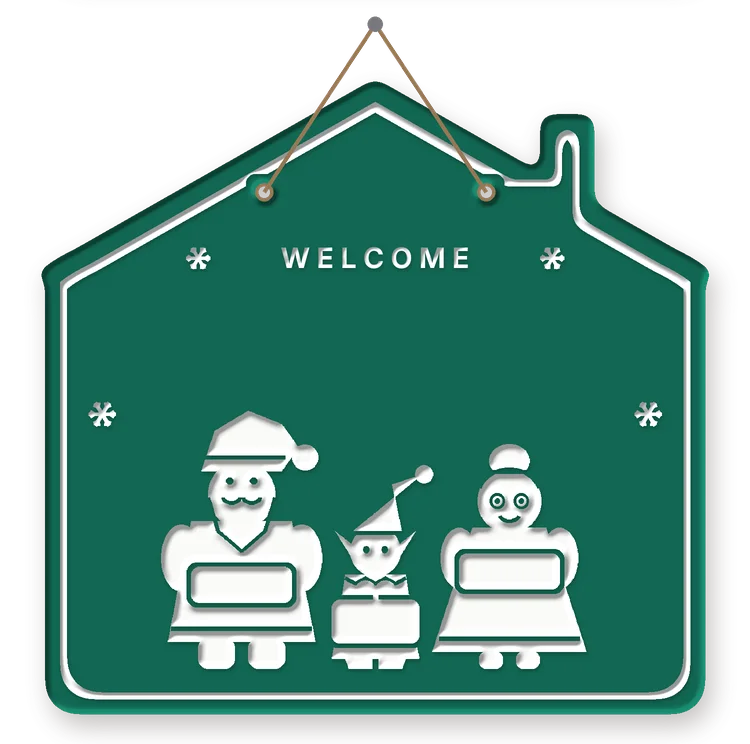
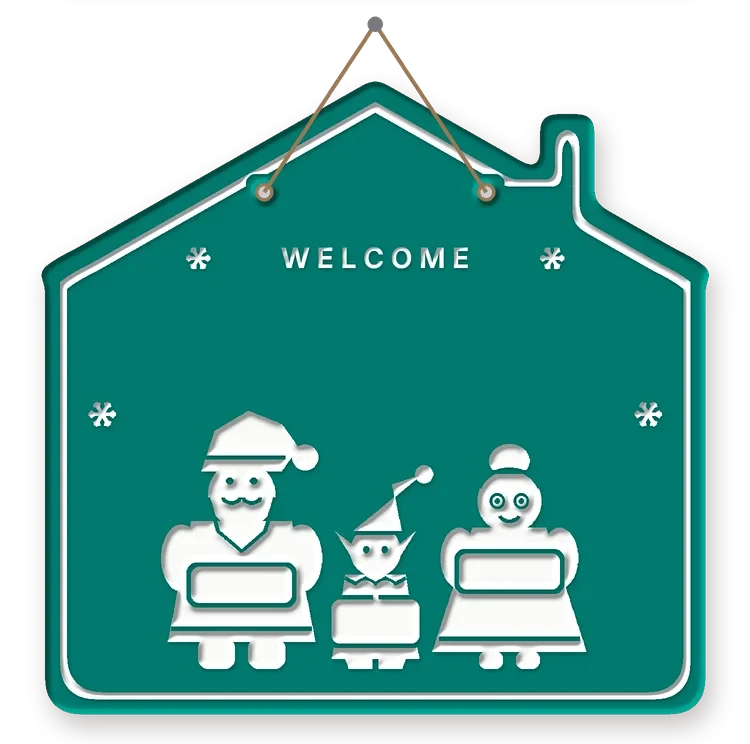
Colours: every green is now pine green (#01796F)
Site and manager CSS, colour swatches, My Village pin, door sign previews.

Claude-Session: https://claude.ai/code/session_01TFBsFu5dNMPwjzkzJrfKhk

diff --git a/index.html b/index.html
@@ -22,7 +22,7 @@
 :root{
   --bg:#FFFFFF; --soft:#F5F7FA; --soft2:#EEF2F7; --line:#E3E8EF; --line2:#D3DAE4;
   --text:#0B1220; --muted:#5B6472; --blue:#1A8CFF; --accent:#0A6FE0; --accent2:#0A6FE0; --accent3:#1A8CFF; --tint:#EAF4FF;
-  --green:#12804A; --red:#D7262C; --xmas:#F2F8F4;
+  --green:#01796F; --red:#D7262C; --xmas:#F2F8F7;
   --r:18px; --head:'Space Grotesk',system-ui,sans-serif; --brand:'Unbounded',system-ui,sans-serif; --body:'Inter',system-ui,sans-serif;
   --shadow:0 1px 2px rgba(11,18,32,.04),0 8px 24px rgba(11,18,32,.06);
   /* legacy names used by markup */
@@ -90,7 +90,7 @@ header.top{position:sticky;top:0;z-index:40;background:rgba(255,255,255,.9);back
 .btn.sec{background:#fff;color:var(--text);border-color:var(--line2)}
 .btn.sec:hover{border-color:var(--text)}
 .btn.blue{background:var(--text);color:#fff}
-.btn.wa{background:#1FAF54;color:#fff}
+.btn.wa{background:#01796F;color:#fff}
 .btn.full{width:100%}
 .btn[disabled]{opacity:.5;pointer-events:none}
 
@@ -119,7 +119,7 @@ header.top{position:sticky;top:0;z-index:40;background:rgba(255,255,255,.9);back
 .count .u b{display:block;font-family:var(--head);font-size:24px;font-weight:700}
 .count .u small{font-size:11px;color:var(--muted);letter-spacing:.1em;text-transform:uppercase}
 .flagbar{display:inline-block;width:32px;height:21px;border-radius:3px;background:linear-gradient(var(--red) 0 25%,#fff 25% 75%,var(--red) 75%);vertical-align:middle;margin-right:10px;position:relative;box-shadow:0 0 0 1px var(--line)}
-.flagbar:after{content:"";position:absolute;left:12px;top:6.5px;border:4px solid transparent;border-bottom:8px solid #1FA14E;border-top:0}
+.flagbar:after{content:"";position:absolute;left:12px;top:6.5px;border:4px solid transparent;border-bottom:8px solid #01796F;border-top:0}
 
 /* sections */
 section.blk{padding:80px 0}
@@ -151,13 +151,13 @@ section.blk{padding:80px 0}
 .add{background:#fff;border:1px solid var(--line2);border-radius:10px;padding:8px 14px;font-weight:600;font-size:14px;min-height:38px;display:inline-flex;align-items:center}
 .pcard:hover .add{background:var(--text);color:#fff;border-color:var(--text)}
 
-.xmas{background:var(--xmas);border-top:1px solid #DDEBE2;border-bottom:1px solid #DDEBE2}
+.xmas{background:var(--xmas);border-top:1px solid #DDEBEA;border-bottom:1px solid #DDEBEA}
 .xmas .eyebrow{color:var(--green)}
 .soon .soon-blur{filter:blur(7px);pointer-events:none;user-select:none;opacity:.85}
 .soon-badge{display:table;margin:0 auto 22px;background:var(--text);color:#fff;font-family:var(--head);font-weight:700;font-size:clamp(20px,2.4vw,28px);letter-spacing:-.01em;padding:12px 28px;border-radius:99px;position:relative;z-index:2}
 
 .snow{display:none}
-.cut{display:inline-flex;align-items:center;gap:10px;background:#fff;border:1px solid #CFE3D6;color:#0F5E37;border-radius:12px;padding:10px 16px;font-size:14px;font-weight:600}
+.cut{display:inline-flex;align-items:center;gap:10px;background:#fff;border:1px solid #CFE3E1;color:#016C63;border-radius:12px;padding:10px 16px;font-size:14px;font-weight:600}
 
 .steps{display:grid;grid-template-columns:repeat(4,1fr);gap:16px}
 @media (max-width:860px){.steps{grid-template-columns:1fr 1fr}}
@@ -286,7 +286,7 @@ footer a:hover{color:var(--text)}
 .tabs button.on{background:#fff;color:var(--text);box-shadow:0 1px 3px rgba(11,18,32,.12)}
 .kpis{display:grid;grid-template-columns:repeat(5,1fr);gap:12px;margin-bottom:18px}
 @media (max-width:800px){.kpis{grid-template-columns:1fr 1fr}}
-.kpi.live{background:#F1FAF5;border-color:#CDEBD9}.kpi.live b{color:var(--green)}
+.kpi.live{background:#F1FAF9;border-color:#CDEBE8}.kpi.live b{color:var(--green)}
 .kpi .dot{display:inline-block;width:8px;height:8px;border-radius:9px;background:var(--green);margin-right:6px;vertical-align:1px;animation:livepulse 1.6s ease-in-out infinite}
 @keyframes livepulse{0%,100%{opacity:1}50%{opacity:.3}}
 
@@ -312,9 +312,9 @@ footer a:hover{color:var(--text)}
 .s-new{background:#E6F1FF;color:#0A5BC0}
 .s-confirmed{background:#EEF0FF;color:#4048B8}
 .s-printing{background:#F3ECFF;color:#6A3DC2}
-.s-ready{background:#E3F7F6;color:#0E7470}
-.s-out{background:#E7F7EE;color:#167A45}
-.s-delivered{background:#DDF3E6;color:#0E6136}
+.s-ready{background:#E3F7F5;color:#01796F}
+.s-out{background:#E7F7F6;color:#01796F}
+.s-delivered{background:#DDF3F1;color:#016E65}
 .s-cancelled{background:#F0F2F5;color:#677180}
 .paid{color:var(--green);font-weight:600;font-size:13px}
 .unpaid{color:#B4232A;font-weight:600;font-size:13px}
@@ -473,7 +473,7 @@ footer{background:#fff}
 .shead{display:flex;align-items:baseline;justify-content:space-between;gap:12px;margin:0 0 12px}
 .shead h2{font-size:clamp(20px,2.4vw,28px);margin:0;letter-spacing:-.03em}
 .shead .muted{font-size:12.5px;font-weight:600}
-.soonlbl{font-size:12.5px;font-weight:700;color:#1B7A3E}
+.soonlbl{font-size:12.5px;font-weight:700;color:#01796F}
 .pgrid{display:grid;grid-template-columns:repeat(2,minmax(0,1fr));gap:12px}
 @media (min-width:900px){.pgrid{grid-template-columns:repeat(4,minmax(0,1fr));gap:18px}}
 .pc{position:relative;display:flex;flex-direction:column;gap:8px;min-width:0;order:1}
@@ -584,10 +584,10 @@ footer{background:#fff}
 .shead{align-items:flex-end;flex-wrap:wrap;gap:12px 20px;margin:0 0 22px}
 .shead h2{font-size:clamp(30px,4.4vw,54px);line-height:1;letter-spacing:-.04em}
 .shead .muted{font-family:var(--brand);font-size:11px;font-weight:700;letter-spacing:.12em;text-transform:uppercase;color:#4A5360}
-.custhint{display:block;margin:0 0 10px;font-family:var(--brand);font-size:11px;font-weight:700;letter-spacing:.12em;text-transform:uppercase;color:#0E6B3D;white-space:normal}
-.soonlbl{display:inline-flex;align-items:center;gap:9px;background:var(--soft);border-radius:999px;padding:10px 18px;font-size:14px;font-weight:800;color:#0E6B3D}
+.custhint{display:block;margin:0 0 10px;font-family:var(--brand);font-size:11px;font-weight:700;letter-spacing:.12em;text-transform:uppercase;color:#01796F;white-space:normal}
+.soonlbl{display:inline-flex;align-items:center;gap:9px;background:var(--soft);border-radius:999px;padding:10px 18px;font-size:14px;font-weight:800;color:#01796F}
 .soonlbl:before{content:"";width:9px;height:9px;border-radius:50%;background:var(--green);animation:rpulse 1.8s ease-out infinite}
-@keyframes rpulse{0%,100%{box-shadow:0 0 0 0 rgba(18,128,74,.5)}60%{box-shadow:0 0 0 9px rgba(18,128,74,0)}}
+@keyframes rpulse{0%,100%{box-shadow:0 0 0 0 rgba(1,121,111,.5)}60%{box-shadow:0 0 0 9px rgba(1,121,111,0)}}
 .dsub{font-family:var(--brand);font-size:11px;font-weight:700;letter-spacing:.12em;text-transform:uppercase;color:#4A5360;margin:0 0 12px}
 /* hero */
 .hero2{padding:30px 0 0}
@@ -731,9 +731,9 @@ footer a{color:#fff}footer a:hover{color:#4BA6FF}
   </div>
 </footer>
 <div class="toast" id="toast" role="status" aria-live="polite"></div>
-<script src="firebase-config.js?v=95133960"></script>
-<script src="art.js?v=95133960"></script>
-<script src="w3d.js?v=95133960"></script>
-<script src="app.js?v=95133960"></script>
+<script src="firebase-config.js?v=95162804"></script>
+<script src="art.js?v=95162804"></script>
+<script src="w3d.js?v=95162804"></script>
+<script src="app.js?v=95162804"></script>
 </body>
 </html>

diff --git a/studio-0bc83dc5.html b/studio-0bc83dc5.html
@@ -23,7 +23,7 @@
 :root{
   --bg:#FFFFFF; --soft:#F5F7FA; --soft2:#EEF2F7; --line:#E3E8EF; --line2:#D3DAE4;
   --text:#0B1220; --muted:#5B6472; --blue:#1A8CFF; --accent:#0A6FE0; --accent2:#0A6FE0; --accent3:#1A8CFF; --tint:#EAF4FF;
-  --green:#12804A; --red:#D7262C; --xmas:#F2F8F4;
+  --green:#01796F; --red:#D7262C; --xmas:#F2F8F7;
   --r:18px; --head:'Space Grotesk',system-ui,sans-serif; --brand:'Unbounded',system-ui,sans-serif; --body:'Inter',system-ui,sans-serif;
   --shadow:0 1px 2px rgba(11,18,32,.04),0 8px 24px rgba(11,18,32,.06);
   /* legacy names used by markup */
@@ -65,7 +65,7 @@ header.top{position:sticky;top:0;z-index:40;background:rgba(255,255,255,.9);back
 .btn.sec{background:#fff;color:var(--text);border-color:var(--line2)}
 .btn.sec:hover{border-color:var(--text)}
 .btn.blue{background:var(--text);color:#fff}
-.btn.wa{background:#1FAF54;color:#fff}
+.btn.wa{background:#01796F;color:#fff}
 .btn.full{width:100%}
 .btn[disabled]{opacity:.5;pointer-events:none}
 
@@ -92,7 +92,7 @@ header.top{position:sticky;top:0;z-index:40;background:rgba(255,255,255,.9);back
 .count .u b{display:block;font-family:var(--head);font-size:24px;font-weight:700}
 .count .u small{font-size:11px;color:var(--muted);letter-spacing:.1em;text-transform:uppercase}
 .flagbar{display:inline-block;width:32px;height:21px;border-radius:3px;background:linear-gradient(var(--red) 0 25%,#fff 25% 75%,var(--red) 75%);vertical-align:middle;margin-right:10px;position:relative;box-shadow:0 0 0 1px var(--line)}
-.flagbar:after{content:"";position:absolute;left:12px;top:6.5px;border:4px solid transparent;border-bottom:8px solid #1FA14E;border-top:0}
+.flagbar:after{content:"";position:absolute;left:12px;top:6.5px;border:4px solid transparent;border-bottom:8px solid #01796F;border-top:0}
 
 /* sections */
 section.blk{padding:80px 0}
@@ -124,10 +124,10 @@ section.blk{padding:80px 0}
 .add{background:#fff;border:1px solid var(--line2);border-radius:10px;padding:8px 14px;font-weight:600;font-size:14px;min-height:38px;display:inline-flex;align-items:center}
 .pcard:hover .add{background:var(--text);color:#fff;border-color:var(--text)}
 
-.xmas{background:var(--xmas);border-top:1px solid #DDEBE2;border-bottom:1px solid #DDEBE2}
+.xmas{background:var(--xmas);border-top:1px solid #DDEBEA;border-bottom:1px solid #DDEBEA}
 .xmas .eyebrow{color:var(--green)}
 .snow{display:none}
-.cut{display:inline-flex;align-items:center;gap:10px;background:#fff;border:1px solid #CFE3D6;color:#0F5E37;border-radius:12px;padding:10px 16px;font-size:14px;font-weight:600}
+.cut{display:inline-flex;align-items:center;gap:10px;background:#fff;border:1px solid #CFE3E1;color:#016C63;border-radius:12px;padding:10px 16px;font-size:14px;font-weight:600}
 
 .steps{display:grid;grid-template-columns:repeat(4,1fr);gap:16px}
 @media (max-width:860px){.steps{grid-template-columns:1fr 1fr}}
@@ -276,7 +276,7 @@ footer a:hover{color:var(--text)}
 .vlist div:last-child{border-bottom:0}
 @media (max-width:800px){.kpis.vk{grid-template-columns:1fr 1fr}.vb span{font-size:9px}.vb em{font-size:8px}.vbars{gap:2px}}
 @media (max-width:800px){.kpis{grid-template-columns:1fr 1fr}}
-.kpi.live{background:#F1FAF5;border-color:#CDEBD9}.kpi.live b{color:var(--green)}
+.kpi.live{background:#F1FAF9;border-color:#CDEBE8}.kpi.live b{color:var(--green)}
 .kpi .dot{display:inline-block;width:8px;height:8px;border-radius:9px;background:var(--green);margin-right:6px;vertical-align:1px;animation:livepulse 1.6s ease-in-out infinite}
 @keyframes livepulse{0%,100%{opacity:1}50%{opacity:.3}}
 
@@ -316,9 +316,9 @@ footer a:hover{color:var(--text)}
 .s-new{background:#E6F1FF;color:#0A5BC0}
 .s-confirmed{background:#EEF0FF;color:#4048B8}
 .s-printing{background:#F3ECFF;color:#6A3DC2}
-.s-ready{background:#E3F7F6;color:#0E7470}
-.s-out{background:#E7F7EE;color:#167A45}
-.s-delivered{background:#DDF3E6;color:#0E6136}
+.s-ready{background:#E3F7F5;color:#01796F}
+.s-out{background:#E7F7F6;color:#01796F}
+.s-delivered{background:#DDF3F1;color:#016E65}
 .s-cancelled{background:#F0F2F5;color:#677180}
 .paid{color:var(--green);font-weight:600;font-size:13px}
 .unpaid{color:#B4232A;font-weight:600;font-size:13px}
@@ -412,9 +412,9 @@ footer a:hover{color:var(--text)}
 
 <div class="toast" id="toast" role="status" aria-live="polite"></div>
 <script>window.BLAZE_ADMIN = true;</script>
-<script src="firebase-config.js?v=95133960"></script>
-<script src="art.js?v=95133960"></script>
-<script src="w3d.js?v=95133960"></script>
-<script src="app.js?v=95133960"></script>
+<script src="firebase-config.js?v=95162804"></script>
+<script src="art.js?v=95162804"></script>
+<script src="w3d.js?v=95162804"></script>
+<script src="app.js?v=95162804"></script>
 </body>
 </html>

diff --git a/app.js b/app.js
@@ -119,7 +119,7 @@
       specs: ['Price on request', 'Totem animal, name or logo on the front', 'We confirm if it can be made before anything is printed'] }
   ];
   var BLAZE_ART_IDS = ['holy-ornament-3'];
-  var COLOR_HEX = { black: '#30343B', white: '#F2F3F5', red: '#E2262B', green: '#1FA14E', orange: '#FF6A1F', blue: '#1A8CFF', yellow: '#FFD23F', grey: '#9AA1AB', gray: '#9AA1AB', purple: '#7A4CC2', pink: '#F47FB0', brown: '#7A4A2A', gold: '#C9A13B', silver: '#C3C7CE', navy: '#1D2B53' };
+  var COLOR_HEX = { black: '#30343B', white: '#F2F3F5', red: '#E2262B', green: '#01796F', orange: '#FF6A1F', blue: '#1A8CFF', yellow: '#FFD23F', grey: '#9AA1AB', gray: '#9AA1AB', purple: '#7A4CC2', pink: '#F47FB0', brown: '#7A4A2A', gold: '#C9A13B', silver: '#C3C7CE', navy: '#1D2B53' };
   function hexOf(name) { var k = String(name || '').toLowerCase(); return COLOR_HEX[k] || COLOR_HEX[k.split(' ')[0]] || '#D9DDE3'; }
   // a product whose options are "A · B" pairs with a second title (optLabel2) shows TWO rows of buttons: A, then B
   function dualOpts(p) {
@@ -1241,7 +1241,7 @@
       '<div class="big ornart doorbig" id="pArt"></div><div>' +
       '<div class="eyebrow">Christmas 2026</div><h1>' + esc(p.name) + '</h1><div class="price">' + (sale ? money(p.price) + (p.was ? '<s>' + money(p.was) + '</s>' : '') : '<span class="soonpill">Coming soon</span>') + '</div>' +
       '<p style="color:#3A4352;font-size:17px;margin:16px 0 0">' + esc(p.desc || '') + '</p>' +
-      '<div class="opt"><span class="lab">Colour</span><div class="swatches" id="dCol"><button type="button" class="sw on" data-c="green"><i style="background:#126854"></i>Green</button><button type="button" class="sw" data-c="red"><i style="background:#BE202C"></i>Red</button></div></div>' +
+      '<div class="opt"><span class="lab">Colour</span><div class="swatches" id="dCol"><button type="button" class="sw on" data-c="green"><i style="background:#01796F"></i>Green</button><button type="button" class="sw" data-c="red"><i style="background:#BE202C"></i>Red</button></div></div>' +
       '<div class="opt">' + field('dFam', 'Family name', o.family, 22, 'e.g. The Haddads') + '</div>' +
       (xm ? '<div class="opt drow">' + field('dDad', 'Dad (Santa)', o.dad, 12, 'e.g. ' + EX.dad) + field('dMom', 'Mom (Mama Claus)', o.mom, 12, 'e.g. ' + EX.mom) + '</div>' +
         '<div class="opt"><span class="lab">Kids (elves)</span><div class="swatches" id="dN">' + [1, 2, 3, 4, 5].map(function (k) { return '<button type="button" class="sw' + (k === 3 ? ' on' : '') + '" data-n="' + k + '">' + k + '</button>'; }).join('') + '</div><div class="drow" id="dKids"></div></div>' : '') +
@@ -2351,7 +2351,7 @@
         '<div class="muted" style="font-size:14px;margin-top:6px">Real cash ' + lbl + ': money received from paid orders and sales (without delivery fees) minus everything you paid, by purchase date.</div>' +
         '<div class="stats" style="grid-template-columns:repeat(auto-fit,minmax(150px,1fr))">' +
           st2('Cash received', '<span style="color:var(--green)">' + money(got) + '</span>') + st2('Spent', money(spent)) +
-          st2('Balance', '<span style="color:' + col(bal) + '">' + sg(bal) + '</span>', ' style="background:' + (bal >= 0 ? '#E8F7EE' : '#FDECEC') + '"') +
+          st2('Balance', '<span style="color:' + col(bal) + '">' + sg(bal) + '</span>', ' style="background:' + (bal >= 0 ? '#E8F7F6' : '#FDECEC') + '"') +
           st2('Still to collect', money(due)) + st2('Balance once collected', '<span style="color:' + col(bal + due) + '">' + sg(bal + due) + '</span>') +
         '</div><div class="stats" style="grid-template-columns:repeat(auto-fit,minmax(120px,1fr));margin-top:0">' +
           st2('Filament', money(sF)) + st2('Supplies', money(sS)) + st2('Bags', money(sB)) + st2('Ads', money(sA)) + st2('Other', money(sE)) + st2('Profit on orders', '<span style="color:' + col(prof) + '">' + sg(prof) + '</span>') +

diff --git a/art.js b/art.js
@@ -1,6 +1,6 @@
 /* 3DBlaze product art — extruded "printed" look, pure SVG, no images needed */
 (function (g) {
-  var C = { white: '#F2F3F5', black: '#30343B', red: '#E2262B', orange: '#FF6A1F', green: '#1FA14E', blue: '#1A8CFF', gold: '#F2F3F5' };
+  var C = { white: '#F2F3F5', black: '#30343B', red: '#E2262B', orange: '#FF6A1F', green: '#01796F', blue: '#1A8CFF', gold: '#F2F3F5' };
 
   function shade(hex, f) {
     var n = parseInt(hex.slice(1), 16), r = n >> 16, gg = (n >> 8) & 255, b = n & 255;
@@ -80,7 +80,7 @@
     'cedar-ornament': function (o) {
       o = o || {}; var col = C[o.color] || C.green;
       var tree = '<path d="' + cedarPath(200, 110, 190, 190) + '" fill="currentColor"/>';
-      return svg(hook(200, 70, 112) + solid(tree, col, 11), col === C.white ? '#9fd' : col);
+      return svg(hook(200, 70, 112) + solid(tree, col, 11), col === C.white ? '#99FFF6' : col);
     },
     'name-ornament': function (o) {
       o = o || {}; var col = C[o.color] || C.red;
@@ -185,10 +185,10 @@
       '<g clip-path="url(#' + id + 'c)"><path d="' + mpath(MPLATE, 1.4, -1.1) + '" fill="#0C0D0F"/>' +
       '<image href="img/map-face.webp" x="' + (MX - 0.5 * MS).toFixed(2) + '" y="' + (MY + (MTOP - 168) * MS).toFixed(2) + '" width="' + (125 * MS).toFixed(2) + '" height="' + (168.5 * MS).toFixed(2) + '" preserveAspectRatio="none"/></g>' +
       '<g class="vpin" style="transform:translate(' + pin[0].toFixed(1) + 'px,' + pin[1].toFixed(1) + 'px)">' +
-        '<circle class="vping" r="5" fill="#1FA14E"/>' +
+        '<circle class="vping" r="5" fill="#01796F"/>' +
         '<g class="vdrop"><ellipse cx="1.5" cy="0.5" rx="7" ry="2.2" fill="#0B1220" opacity=".2"/>' +
-        '<path d="' + PINPATH + '" transform="translate(1.6 1.2)" fill="#0E5A2A"/>' +
-        '<path d="' + PINPATH + '" fill="#1FA14E"/>' +
+        '<path d="' + PINPATH + '" transform="translate(1.6 1.2)" fill="#01675E"/>' +
+        '<path d="' + PINPATH + '" fill="#01796F"/>' +
         '<ellipse cx="-3.5" cy="-20" rx="2.8" ry="4" fill="#fff" opacity=".28"/></g></g>' +
       // raised white text lying on the top face (squashed for the viewing angle), like the print
       (function () {
@@ -343,7 +343,7 @@
 
   // ---- Family door signs (Christmas: Santa = dad, Mama Claus = mom, elves = kids; plain: family name) ----
   var DOOR = {"xmas":{"1":[[80.47,194.86,33.49,11.72],[125.12,207.14,29.02,14.51],[169.78,190.4,33.49,11.72]],"2":[[52.48,207.14,29.02,14.51],[97.13,194.86,33.49,11.72],[152.94,190.4,33.49,11.72],[197.59,207.14,29.02,14.51]],"3":[[40.88,208.27,27.34,13.67],[82.94,196.71,31.55,11.04],[125.0,208.27,27.34,13.67],[167.06,192.5,31.55,11.04],[209.12,208.27,27.34,13.67]],"4":[[38.48,210.58,23.68,11.84],[65.8,210.58,23.68,11.84],[102.23,200.57,27.32,9.56],[147.77,196.92,27.32,9.56],[184.2,210.58,23.68,11.84],[211.52,210.58,23.68,11.84]],"5":[[36.65,212.22,20.88,10.44],[60.75,212.22,20.88,10.44],[92.87,203.39,24.09,8.43],[133.03,200.17,24.09,8.43],[165.16,212.22,20.88,10.44],[189.25,212.22,20.88,10.44],[213.35,212.22,20.88,10.44]]},"plain":{},"xmasSize":[250,248],"plainSize":[230,200],"xmasFamily":[125,114,184,34],"plainFamily":[115,136,170,44],"roles":{"1":["S","E","M"],"2":["E","S","M","E"],"3":["E","S","E","M","E"],"4":["E","E","S","M","E","E"],"5":["E","E","S","M","E","E","E"]}};
-  var DOORC = { green: '#126854', red: '#BE202C' };
+  var DOORC = { green: '#01796F', red: '#BE202C' };
   var _mc = null;
   function tw(txt, font) { try { _mc = _mc || document.createElement('canvas').getContext('2d'); _mc.font = font; return _mc.measureText(txt).width; } catch (e) { return txt.length * 0.6 * parseFloat(font.match(/(\d+(?:\.\d+)?)px/)[1]); } }
   function fitText(txt, x, y, maxw, maxh, fam, weight, fill, extra) {
